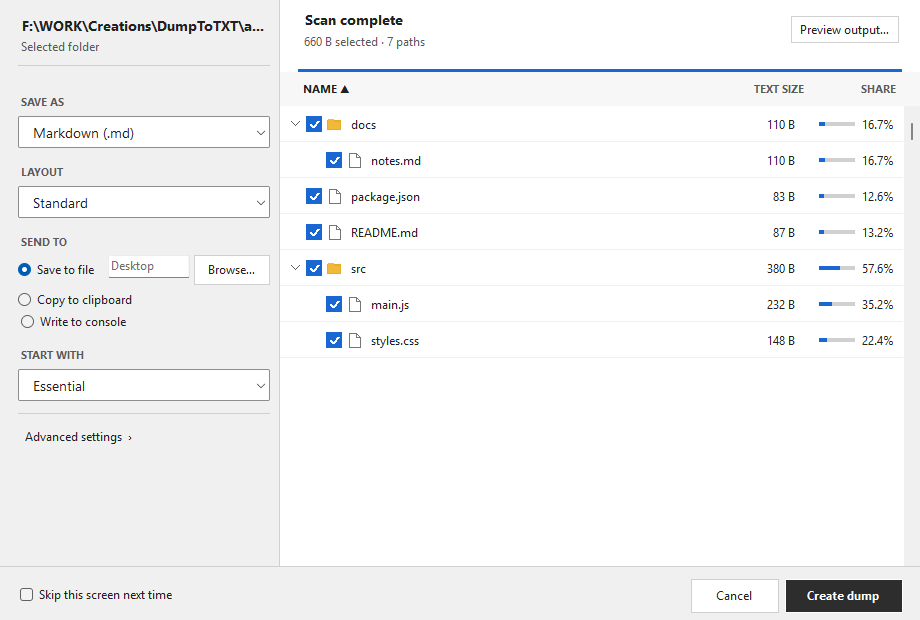
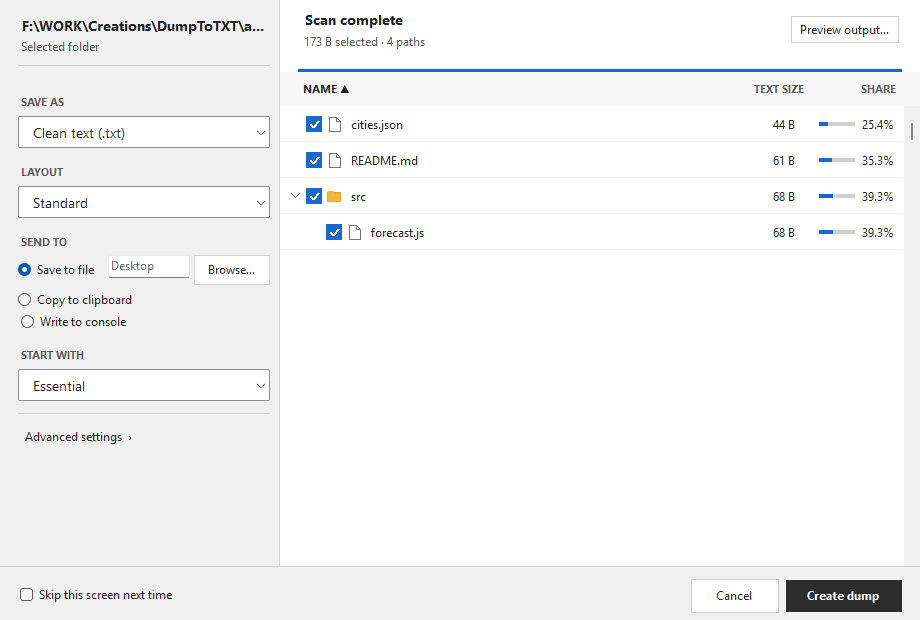
Pair sample project screenshot with its actual text export

diff --git a/website/styles.css b/website/styles.css
@@ -4,10 +4,11 @@ body{margin:0}h1,h2,p,figure{margin:0}a{color:inherit;text-underline-offset:4px}
 .skip{position:absolute;top:-100px;left:16px;padding:12px;background:white;z-index:2}.skip:focus{top:10px}.sr-only{position:absolute;width:1px;height:1px;overflow:hidden;clip-path:inset(50%)}
 .site-header{display:flex;align-items:center;justify-content:space-between;min-height:84px;border-bottom:1px solid var(--line)}.brand{display:flex;align-items:center;gap:10px;font-size:20px;font-weight:650;text-decoration:none}nav{display:flex;gap:28px;font-size:14px}nav a{text-decoration:none}
 .hero{padding-top:44px}.hero-top{display:flex;align-items:center;justify-content:space-between;gap:32px;margin-bottom:32px}h1{font-size:clamp(36px,4.2vw,56px);line-height:1.08;letter-spacing:-.035em;font-weight:650}h2{font-size:clamp(26px,3vw,36px);line-height:1.15;letter-spacing:-.025em;font-weight:600}.lede{font-size:17px;margin-top:18px;color:#515151}.button{display:inline-flex;align-items:center;justify-content:center;gap:20px;min-height:50px;background:#2d2d2d;color:#fff;padding:14px 22px;border-radius:6px;text-decoration:none;font-size:15px;font-weight:600;white-space:nowrap}.button:hover{background:#444;color:white}.button:active{background:#111}.meta{font-size:12px;line-height:1.6;color:var(--muted)}.hero-download .meta{margin-top:12px}.hero-download{flex-shrink:0}
-.app-shot img{display:block;width:100%;height:auto;background:#eee}.app-shot>a{display:block;box-shadow:0 14px 40px #20202018}.app-shot figcaption{display:flex;justify-content:space-between;gap:12px;font-size:13px;color:var(--muted);margin-top:16px}.app-shot figcaption span:first-child{color:#202020;font-weight:600}.preview-section{display:grid;grid-template-columns:1fr 1.7fr;align-items:center;gap:44px;padding-block:80px}.preview-section p{margin-top:18px;line-height:1.6;color:#515151}.preview-section .formats{font-size:14px;font-weight:600;color:#202020}.preview-section .meta{margin-top:10px}
+.app-shot img{display:block;width:100%;height:auto;background:#eee}.app-shot>a{display:block;box-shadow:0 14px 40px #20202018}.app-shot figcaption{display:flex;justify-content:space-between;gap:12px;font-size:13px;color:var(--muted);margin-top:16px}.app-shot figcaption span:first-child{color:#202020;font-weight:600}
 .comparison{padding-block:50px 64px;border-top:1px solid var(--line)}.comparison h2{margin-bottom:30px}.table-scroll{overflow-x:auto}table{width:100%;border-collapse:collapse;text-align:left;font-size:14px;line-height:1.5}th,td{padding:20px 18px;vertical-align:top;border-bottom:1px solid var(--line)}thead th{font-size:17px;font-weight:650;color:#202020}thead th:first-child{font-size:13px;color:var(--muted);font-weight:400}tbody th{font-size:13px;font-weight:500;width:17%;color:var(--muted)}td{width:27.66%}td:nth-child(2),thead th:nth-child(2){background:#eaeaea}td strong{font-weight:600}.sources{font-size:12px;color:var(--muted);line-height:1.7;margin-top:18px;max-width:95ch}
 .download-section{padding-block:42px 48px;border-top:1px solid var(--line)}.download-heading{display:flex;align-items:center;justify-content:space-between;gap:20px;margin-bottom:16px}details{margin-top:24px}summary{font-size:14px;font-weight:600;cursor:pointer;padding-block:10px;width:fit-content}details p{font-size:14px;line-height:1.6;margin-top:12px;color:#515151}.command{display:flex;align-items:center;gap:16px;max-width:640px;padding:14px 16px;background:#eaeaea;margin-top:20px;border-radius:6px}.command code{font:13px/1.6 Consolas,monospace;overflow-wrap:anywhere;user-select:all}.command button{margin-left:auto;padding:7px 12px;border:1px solid #ccc;border-radius:4px;background:white;cursor:pointer;font:inherit;font-size:13px;color:#202020}.command button:hover{background:#f7f7f7}#copy-status{font-size:12px;min-height:20px}footer{border-top:1px solid var(--line);display:flex;gap:26px;padding-block:25px;font-size:12px;color:var(--muted)}footer span{margin-right:auto}
-@media(max-width:900px){.wrap{width:calc(100% - 48px)}.hero-top{align-items:flex-start;flex-direction:column;gap:24px}.hero-download{display:flex;align-items:center;gap:18px}.hero-download .meta{margin:0}.preview-section{gap:25px;grid-template-columns:1fr 1.3fr}}
-@media(max-width:620px){.wrap{width:calc(100% - 36px)}.site-header{min-height:72px}.brand{font-size:18px}.brand img{width:26px;height:26px}nav{gap:17px;font-size:12px}nav a:last-child{display:none}.hero{padding-top:30px}h1{font-size:36px}.lede{font-size:15px;line-height:1.5;max-width:28ch;margin-top:15px}.hero-download{display:block}.hero-download .meta{margin-top:10px;font-size:11px}.hero-top{margin-bottom:25px}.app-shot figcaption{font-size:12px;flex-direction:column;gap:4px;margin-top:12px}.preview-section{grid-template-columns:1fr;gap:25px;padding-block:48px}.preview-section h2 br{display:none}.preview-section p{margin-top:12px}.comparison{padding-block:32px 40px}.comparison h2{max-width:16ch;margin-bottom:22px}table{min-width:680px}th,td{padding:15px 12px}thead th{font-size:15px}.sources{font-size:11px}.download-section{padding-block:32px}.download-heading{align-items:flex-start;flex-direction:column}.command{padding:12px;gap:10px}.command code{font-size:12px}footer{flex-wrap:wrap;gap:16px}footer span{width:100%}}
-.hero>.app-shot{max-width:920px;margin-inline:auto}
+@media(max-width:900px){.wrap{width:calc(100% - 48px)}.hero-top{align-items:flex-start;flex-direction:column;gap:24px}.hero-download{display:flex;align-items:center;gap:18px}.hero-download .meta{margin:0}}
+@media(max-width:620px){.wrap{width:calc(100% - 36px)}.site-header{min-height:72px}.brand{font-size:18px}.brand img{width:26px;height:26px}nav{gap:17px;font-size:12px}nav a:last-child{display:none}.hero{padding-top:30px}h1{font-size:36px}.lede{font-size:15px;line-height:1.5;max-width:28ch;margin-top:15px}.hero-download{display:block}.hero-download .meta{margin-top:10px;font-size:11px}.hero-top{margin-bottom:25px}.app-shot figcaption{font-size:12px;flex-direction:column;gap:4px;margin-top:12px}.comparison{padding-block:32px 40px}.comparison h2{max-width:16ch;margin-bottom:22px}table{min-width:680px}th,td{padding:15px 12px}thead th{font-size:15px}.sources{font-size:11px}.download-section{padding-block:32px}.download-heading{align-items:flex-start;flex-direction:column}.command{padding:12px;gap:10px}.command code{font-size:12px}footer{flex-wrap:wrap;gap:16px}footer span{width:100%}}
+
 .compare-hint{display:none}@media(max-width:620px){.compare-hint{display:block;font-size:12px;color:var(--muted);margin-bottom:12px}}
+.hero.wrap{width:min(1440px,calc(100% - 80px));padding-bottom:55px}.hero-top{max-width:1120px;margin-inline:auto;margin-bottom:36px}.example-pair{display:grid;grid-template-columns:1fr 1fr;gap:32px;align-items:start}.example-pair figcaption{margin:0 0 15px;align-items:center;font-size:14px}.example-pair figcaption strong{font-weight:600;color:#202020}.example-pair figcaption>a{box-shadow:none;display:inline;font-size:12px}.example-note{text-align:center;font-size:12px;color:var(--muted);margin-top:24px;line-height:1.6}@media(max-width:900px){.hero.wrap{width:calc(100% - 48px)}.example-pair{gap:20px}.example-pair figcaption{align-items:flex-start;flex-direction:column;gap:5px}}@media(max-width:620px){.hero.wrap{width:calc(100% - 36px);padding-bottom:35px}.example-pair{grid-template-columns:1fr;gap:32px}.hero-top{margin-bottom:28px}.example-note{text-align:left}}

diff --git a/website/index.html b/website/index.html
@@ -28,14 +28,17 @@
       <div><h1>Turn a folder into<br>one file for your AI.</h1><p class="lede">Right-click in Explorer. Pick your files. Export.</p></div>
       <div class="hero-download"><a class="button" href="https://github.com/O-Marmullaku/DumpToTxt/releases/latest/download/DumpToTxt-Setup-full.exe">Download for Windows <span aria-hidden="true">↓</span></a><p class="meta">v2.0.0 · Windows x64 · Runtime included</p></div>
     </div>
-    <figure class="app-shot">
-      <a href="assets/review.png" aria-label="Open full-size screenshot of the file selection window"><img src="assets/review.png" width="920" height="620" alt="DumpToTxt’s Windows review window: a folder tree with file checkboxes, content sizes, export format and destination controls." fetchpriority="high"></a>
-      <figcaption><span>Choose which files go in.</span><span>Actual Windows app · Sample project</span></figcaption>
-    </figure>
-  </section>
-  <section class="wrap preview-section">
-    <div><h2>See the file<br> before you save it.</h2><p>Folder tree + selected file contents, together.</p><p class="formats">TXT · Markdown · JSON · XML · Word</p><p class="meta">Runs locally. No account required.</p></div>
-    <figure class="app-shot"><a href="assets/preview.png" aria-label="Open full-size screenshot of the output preview"><img src="assets/preview.png" width="920" height="620" alt="The real DumpToTxt output preview showing the sample project’s selected file contents." loading="lazy"></a></figure>
+    <div class="example-pair">
+      <figure class="app-shot">
+        <figcaption><strong>Create dump</strong><span>Pick the files from your project.</span></figcaption>
+        <a href="assets/review.png" aria-label="Open full-size screenshot of Create dump"><img src="assets/review.png" width="920" height="620" alt="The real Create dump window with the sample weather project's README.md, cities.json and src/forecast.js selected for a text export." fetchpriority="high"></a>
+      </figure>
+      <figure class="app-shot">
+        <figcaption><strong>sample-weather-app.txt</strong><a href="assets/sample-weather-app.txt">Open the actual file</a></figcaption>
+        <a href="assets/output.png" aria-label="Open full-size image of the exported text file"><img src="assets/output.png" width="920" height="850" alt="Actual text exported from the same sample project, containing the directory tree, token counts and all three files' contents." fetchpriority="high"></a>
+      </figure>
+    </div>
+    <p class="example-note">Sample project · Real app and generated output · TXT, Markdown, JSON, XML or Word</p>
   </section>
   <section class="wrap comparison" id="compare">
     <h2>DumpToTxt vs. Repomix vs. Gitingest</h2>

diff --git a/tests/WebsiteCapture/Program.cs b/tests/WebsiteCapture/Program.cs
@@ -51,20 +51,17 @@ internal static class Program
     [System.Runtime.CompilerServices.MethodImpl(System.Runtime.CompilerServices.MethodImplOptions.NoInlining)]
     static void Capture()
     {
-        string fixture = Path.Combine(Output, "weekend-project");
+        string fixture = Path.Combine(Output, "sample-weather-app");
         Directory.CreateDirectory(Path.Combine(fixture, "src"));
-        Directory.CreateDirectory(Path.Combine(fixture, "docs"));
-        File.WriteAllText(Path.Combine(fixture, "README.md"), "# Weekend project\n\nA small weather dashboard.\n\n## Run locally\n\nnpm install\nnpm run dev\n");
-        File.WriteAllText(Path.Combine(fixture, "package.json"), "{\n  \"name\": \"weekend-project\",\n  \"private\": true,\n  \"scripts\": { \"dev\": \"vite\" }\n}\n");
-        File.WriteAllText(Path.Combine(fixture, "src", "main.js"), "const city = document.querySelector('#city');\nconst weather = document.querySelector('#weather');\n\nexport function showWeather(forecast) {\n  city.textContent = forecast.city;\n  weather.textContent = `${forecast.temperature} °C`;\n}\n");
-        File.WriteAllText(Path.Combine(fixture, "src", "styles.css"), "body {\n  margin: 0;\n  font-family: system-ui, sans-serif;\n  background: #f7f7f7;\n  color: #242424;\n}\n\nmain { max-width: 48rem; margin: 4rem auto; }\n");
-        File.WriteAllText(Path.Combine(fixture, "docs", "notes.md"), "# Next steps\n\n- Add the five-day forecast.\n- Remember the selected city.\n- Show a clear message when offline.\n");
+        File.WriteAllText(Path.Combine(fixture, "README.md"), "# Sample Weather App\nShows the forecast for a selected city.\n");
+        File.WriteAllText(Path.Combine(fixture, "cities.json"), "{ \"cities\": [\"Zurich\", \"London\", \"Tokyo\"] }\n");
+        File.WriteAllText(Path.Combine(fixture, "src", "forecast.js"), "export function forecast(city) {\n  return `${city}: 22 C, sunny`;\n}\n");
         typeof(DumpSelectionForm).Assembly.GetType("ApplicationConfiguration", true)!.GetMethod("Initialize")!.Invoke(null, null);
         var theme = typeof(DumpSelectionForm).Assembly.GetType("DumpToTxt.App.UiTheme", true)!;
         theme.GetMethod("Apply", BindingFlags.Static | BindingFlags.Public | BindingFlags.NonPublic)!.Invoke(null, new object?[] { UiThemeKind.Graphite, null });
         var config = DumpConfig.CreateDefault();
         config.Theme = UiThemeKind.Graphite;
-        config.Style = OutputStyle.Markdown;
+        config.Style = OutputStyle.Plain;
         config.PlayCompletionSound = false;
         using var form = new DumpSelectionForm(fixture, config);
         form.Show();
@@ -73,9 +70,14 @@ internal static class Program
         if (Field<Label>(form, "_validation").Text.Length != 0) throw new InvalidOperationException("Fixture scan reported an issue.");
         Field<TreeView>(form, "_tree").ExpandAll(); Application.DoEvents();
         Save(form, "review.png");
-        Field<Button>(form, "_previewButton").PerformClick();
-        PumpUntil(() => Field<RichTextBox>(form, "_preview").Text.Contains("# Weekend project"), "preview");
-        Save(form, "preview.png");
+        var result = new DumpEngine().Run(fixture, config, Path.Combine(Output, "export"));
+        if (result.Cancelled || result.FilesIncluded != 3 || result.OutputPath is null)
+            throw new InvalidOperationException("Sample export did not include all three files.");
+        string text = File.ReadAllText(result.OutputPath);
+        foreach (string file in Directory.GetFiles(fixture, "*", SearchOption.AllDirectories))
+            if (!text.Contains(File.ReadAllText(file).TrimEnd()))
+                throw new InvalidOperationException("Sample output is missing file content.");
+        File.Copy(result.OutputPath, Path.Combine(Output, "sample-weather-app.txt"), true);
         File.AppendAllText(Path.Combine(Output, "capture.log"), "Closing form\n");
         form.Close();
         File.AppendAllText(Path.Combine(Output, "capture.log"), "Closed form\n");

diff --git a/docs/website.md b/docs/website.md
@@ -15,7 +15,7 @@ The site extends the application's light Graphite identity: pale gray canvas,
 white surfaces, charcoal type and actions, restrained blue focus and selection.
 It is a download page for Windows users evaluating a local project-export tool.
 The first view shows the real Windows review window alongside a literal workflow
-and download. A second capture shows the actual output preview. Keep copy short;
+and download. The adjacent image renders the actual generated `.txt` file, with a full-file link. Keep copy short;
 the app screenshots explain the product. The comparison links primary competitor
 documentation and distinguishes workflows without claiming exclusive capabilities.
 Preserve keyboard focus, narrow touch-browser layouts, and no-JavaScript downloads.
@@ -58,20 +58,21 @@ setting owns the domain; a source `CNAME` file is not required.
 
 ## App screenshots
 
-`tests/WebsiteCapture` captures the real production review form and Markdown
-preview using a sample project. Run from the repository root on Windows:
+`tests/WebsiteCapture` captures the real production review form and exports a sample weather project as text. Run from the repository root on Windows:
 
 ```powershell
 dotnet run --project tests/WebsiteCapture/Capture.csproj -c Release
+node tests/Website/capture-output.cjs
 ```
 
 The launcher creates a separate desktop and starts its own process there. The
 child asserts it is not on the input desktop before creating forms. It never
-switches desktops, drives user input, saves preferences, or invokes export.
-It waits for completed scanning and preview content, then uses `PrintWindow`
+switches desktops, drives user input, saves preferences, or exports outside its fixture output directory.
+It waits for completed scanning, then uses `PrintWindow`
 to capture the live client area at the default size. Window-manager chrome is
 omitted because a noninteractive desktop does not compose its shadows.
 
-Inspect `artifacts/website/review.png` and `preview.png` before copying them to
+The browser capture renders the unedited generated text; it does not imitate a text editor.
+Inspect `artifacts/website/review.png`, `output.png`, and `sample-weather-app.txt` before copying them to
 `website/assets/`. `capture.log` records isolation and image hashes. These are
 current-source UI captures, not installer acceptance. Keep fixtures synthetic.

diff --git a/DESIGN.md b/DESIGN.md
@@ -33,7 +33,7 @@ This applies to `website/`. The native application's palettes remain owned by
 `UiTheme.cs`.
 
 The page starts with a literal explanation, Windows download, and a real app
-capture. A second capture shows the output preview. A compact comparison table
+capture beside an image of its actual text export. A compact comparison table
 explains the workflows of DumpToTxt, Repomix and Gitingest. Extra installation
 options stay in a disclosure. Avoid feature essays and illustrative app mockups.
 
@@ -42,11 +42,11 @@ selection and links on hover. Keep visible keyboard focus (3px outline, 4px offs
 underlined inline links, and selected text with white type on blue.
 
 Center the page in a 1120px wrapper with 40px desktop gutters, 24px below 900px,
-and 18px below 620px. The hero screenshot is limited to its native width. Preserve
+and 18px below 620px. The two-image hero can span 1440px; neither image exceeds its native width. Preserve
 image proportions and provide full-size links. Screenshot shadow: `0 14px 40px #20202018`.
 Primary buttons have a 50px minimum height, 6px corners and 14px / 22px padding.
 
-On narrow screens, stack headline and download, then stack preview copy and image.
+On narrow screens, stack headline and download, then stack the app screenshot and output image.
 The comparison table scrolls horizontally inside a labelled, keyboard-focusable
 region with a visible mobile scroll hint. Never let it widen the page itself.
 
